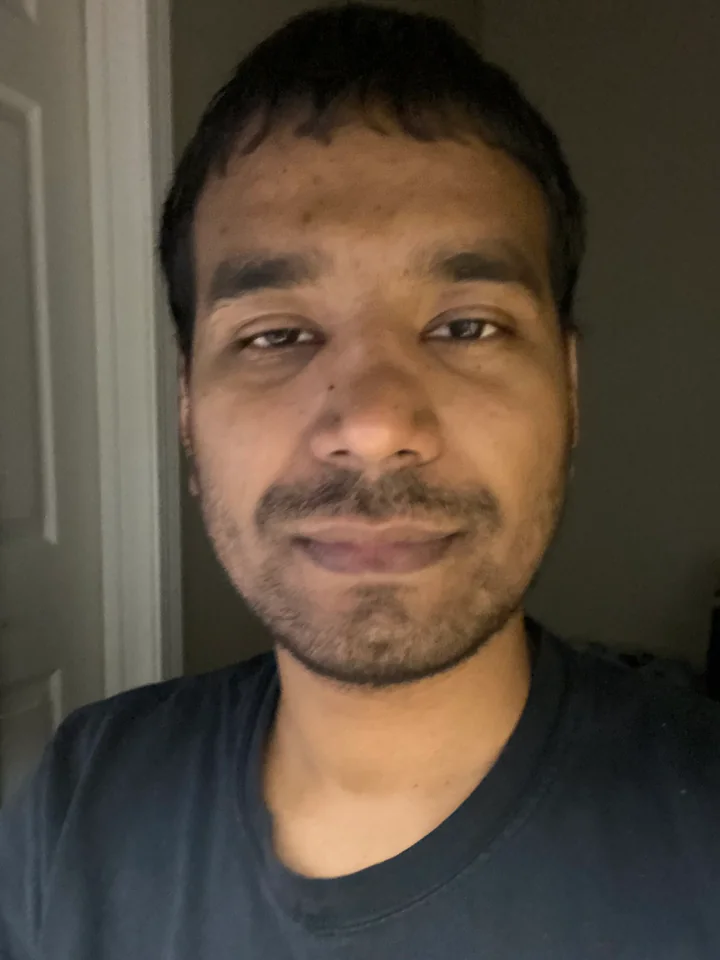
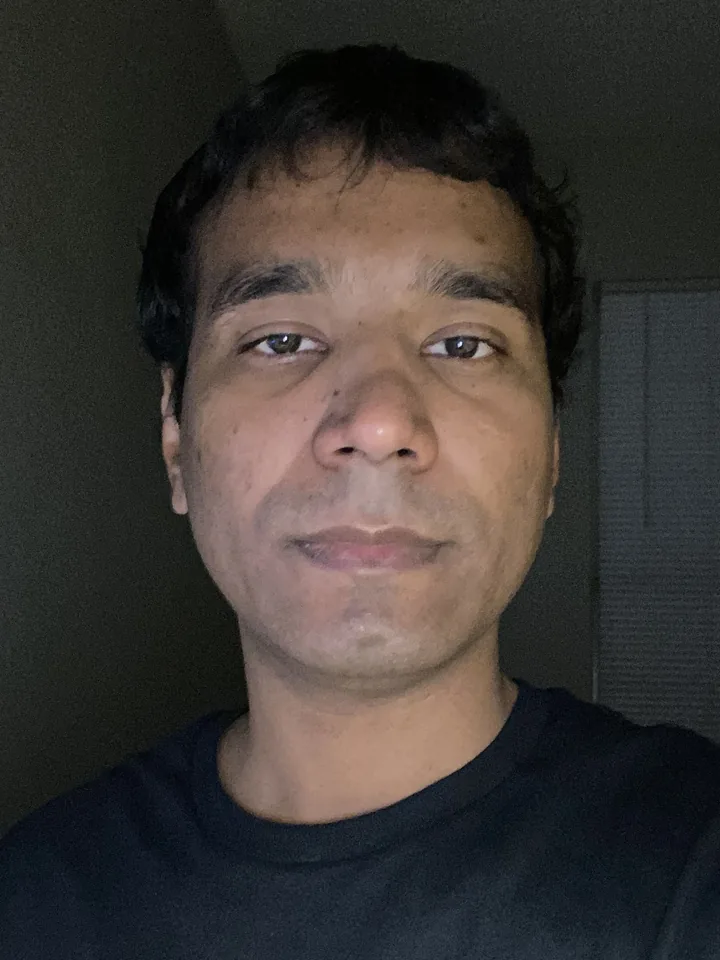
Update

diff --git a/src/components/Hero.tsx b/src/components/Hero.tsx
@@ -1,4 +1,5 @@
 import Image from 'next/image';
+import Link from 'next/link';
 import { ScholarIcon, GithubIcon, LinkedinIcon, XIcon } from './icons';
 
 export default function Hero() {
@@ -47,21 +48,21 @@ export default function Hero() {
           </div>
 
           <div className="w-full flex-1 min-w-0">
-            <h1 className="text-center sm:text-left text-3xl sm:text-4xl lg:text-[40px] font-bold text-gray-900 tracking-tight leading-[1.1] mb-3">
+            <h1 className="text-center sm:text-left text-3xl sm:text-4xl lg:text-[40px] font-bold text-gray-900 tracking-tight leading-[1.1] mb-5">
               Najmul Hasan
             </h1>
 
-            <div className="text-center sm:text-left text-[14px] text-gray-600 leading-relaxed mb-5">
-              Language Models · <span className="text-gray-800">AI Alignment</span>
-            </div>
-
             <div className="space-y-4 text-base text-gray-700 leading-[1.7]">
               <p>
-                My research centers on language models and AI alignment. I am particularly interested in how model design and training choices shape capabilities and behavior, and in developing models that are more capable, reliable, and aligned.
+                My research interests are in the pretraining and post-training of language models. I want to build models from the ground up and understand how choices in data, architecture, and optimization shape what they learn and how they behave.
               </p>
 
               <p>
-                I am an AI/ML Quality Engineering Intern at <a href="https://www.rocketlawyer.com/" target="_blank" rel="noopener noreferrer" className="text-teal-700 hover:underline">Rocket Lawyer</a>.
+                My work so far includes evaluations of frontier language models and a <Link href="/blog/refusal-to-redirection">fine-tuning experiment</Link> on how safety training changes a model&apos;s behavior.
+              </p>
+
+              <p>
+                I am currently a Quality Engineering Intern, AI/ML, at <a href="https://www.rocketlawyer.com/" target="_blank" rel="noopener noreferrer" className="text-teal-700 hover:underline">Rocket Lawyer</a>.
               </p>
 
               <p>

diff --git a/src/app/layout.tsx b/src/app/layout.tsx
@@ -8,7 +8,7 @@ import "./globals.css";
 const SITE_DESCRIPTION = profile.description;
 
 const SITE_SHORT_DESCRIPTION =
-  "Researcher interested in language models, language-model training, and AI alignment.";
+  "Researcher interested in the pretraining and post-training of language models.";
 
 export const metadata: Metadata = {
   metadataBase: new URL("https://najmulhasan-code.github.io"),
@@ -105,7 +105,7 @@ const websiteJsonLd = {
   url: "https://najmulhasan-code.github.io",
   name: "Najmul Hasan",
   description:
-    "Academic portfolio of Najmul Hasan, a researcher interested in language models and AI alignment.",
+    "Academic portfolio of Najmul Hasan, a researcher interested in the pretraining and post-training of language models.",
   inLanguage: "en-US",
   author: { "@id": "https://najmulhasan-code.github.io/#person" },
 };

diff --git a/src/app/research/page.tsx b/src/app/research/page.tsx
@@ -8,7 +8,7 @@ const SITE_URL = 'https://najmulhasan-code.github.io';
 
 export const metadata: Metadata = {
   title: 'Research | Najmul Hasan',
-  description: 'Research publications by Najmul Hasan on language models, AI alignment, and related areas.',
+  description: 'Research publications by Najmul Hasan on language models and related areas.',
   alternates: {
     canonical: 'https://najmulhasan-code.github.io/research',
     types: { 'application/json': `${SITE_URL}/research.json` },

diff --git a/src/app/blog/page.tsx b/src/app/blog/page.tsx
@@ -8,7 +8,7 @@ const SITE_URL = 'https://najmulhasan-code.github.io';
 
 export const metadata: Metadata = {
   title: 'Blog | Najmul Hasan',
-  description: 'Writing by Najmul Hasan on language-model training and evaluation, AI alignment, and research projects.',
+  description: 'Writing by Najmul Hasan on language model training, evaluation, and research projects.',
   alternates: {
     canonical: `${SITE_URL}/blog`,
     types: { 'application/json': `${SITE_URL}/research.json` },

diff --git a/src/app/page.tsx b/src/app/page.tsx
@@ -37,7 +37,7 @@ export default function Home() {
     url: SITE_URL,
     name: 'Najmul Hasan',
     description:
-      'Academic portfolio of Najmul Hasan, a researcher interested in language models and AI alignment.',
+      'Academic portfolio of Najmul Hasan, a researcher interested in the pretraining and post-training of language models.',
     inLanguage: 'en-US',
     mainEntity: {
       '@type': 'Person',

diff --git a/README.md b/README.md
@@ -1,9 +1,11 @@
 # Najmul Hasan
 
-Language Models · AI Alignment
+[Website](https://najmulhasan-code.github.io) · [Google Scholar](https://scholar.google.com/citations?user=YL8xF4MAAAAJ&hl=en) · [LinkedIn](https://linkedin.com/in/najmulhasan-cs-math) · [Twitter](https://x.com/_najmulhasan)
 
-[Website](https://najmulhasan-code.github.io) · [Google Scholar](https://scholar.google.com/citations?user=YL8xF4MAAAAJ&hl=en) · [LinkedIn](https://linkedin.com/in/najmulhasan-cs-math) · [X](https://x.com/_najmulhasan)
+My research interests are in the pretraining and post-training of language models. I want to build models from the ground up and understand how choices in data, architecture, and optimization shape what they learn and how they behave.
 
-My research interests center on language models and AI alignment. I am particularly interested in the design and training of language models, including how training choices shape their capabilities and behavior, and in developing models that are more capable, reliable, and aligned.
+My work so far includes evaluations of frontier language models and a [fine-tuning experiment](https://najmulhasan-code.github.io/blog/refusal-to-redirection) on how safety training changes a model's behavior.
 
-I completed a B.S. in Computer Science, with minors in Mathematics and Physics, at the University of North Carolina at Pembroke, where I worked with [Dr. Prashanth BusiReddyGari](https://www.uncp.edu/about/directory/prashanth-busi_reddy_gari.html) and [Dr. Shaohu Zhang](https://zhangshaohu.github.io/). I was an AI Safety Research Fellow at [Algoverse](https://algoverseairesearch.org). I completed the [AI Safety Fundamentals Fellowship (AISF)](https://aialignment.mit.edu/) with MIT AI Alignment (MAIA) and [BlueDot Impact's Technical AI Safety course](https://bluedot.org/courses/technical-ai-safety). I am currently participating in BlueDot Impact's [Technical AI Safety Project Sprint](https://bluedot.org/courses/technical-ai-safety-project), where I am working on language-model alignment during pretraining.
+I am currently a Quality Engineering Intern, AI/ML, at [Rocket Lawyer](https://www.rocketlawyer.com/).
+
+I hold a B.S. in Computer Science, with minors in Mathematics and Physics, from the University of North Carolina at Pembroke, where I worked with [Dr. Prashanth BusiReddyGari](https://www.uncp.edu/about/directory/prashanth-busi_reddy_gari.html) and [Dr. Shaohu Zhang](https://zhangshaohu.github.io/). I was an AI Safety Research Fellow at [Algoverse](https://algoverseairesearch.org). I completed the [AI Safety Fundamentals Fellowship (AISF)](https://aialignment.mit.edu/) with MIT AI Alignment (MAIA) and [BlueDot Impact's Technical AI Safety course](https://bluedot.org/courses/technical-ai-safety).
